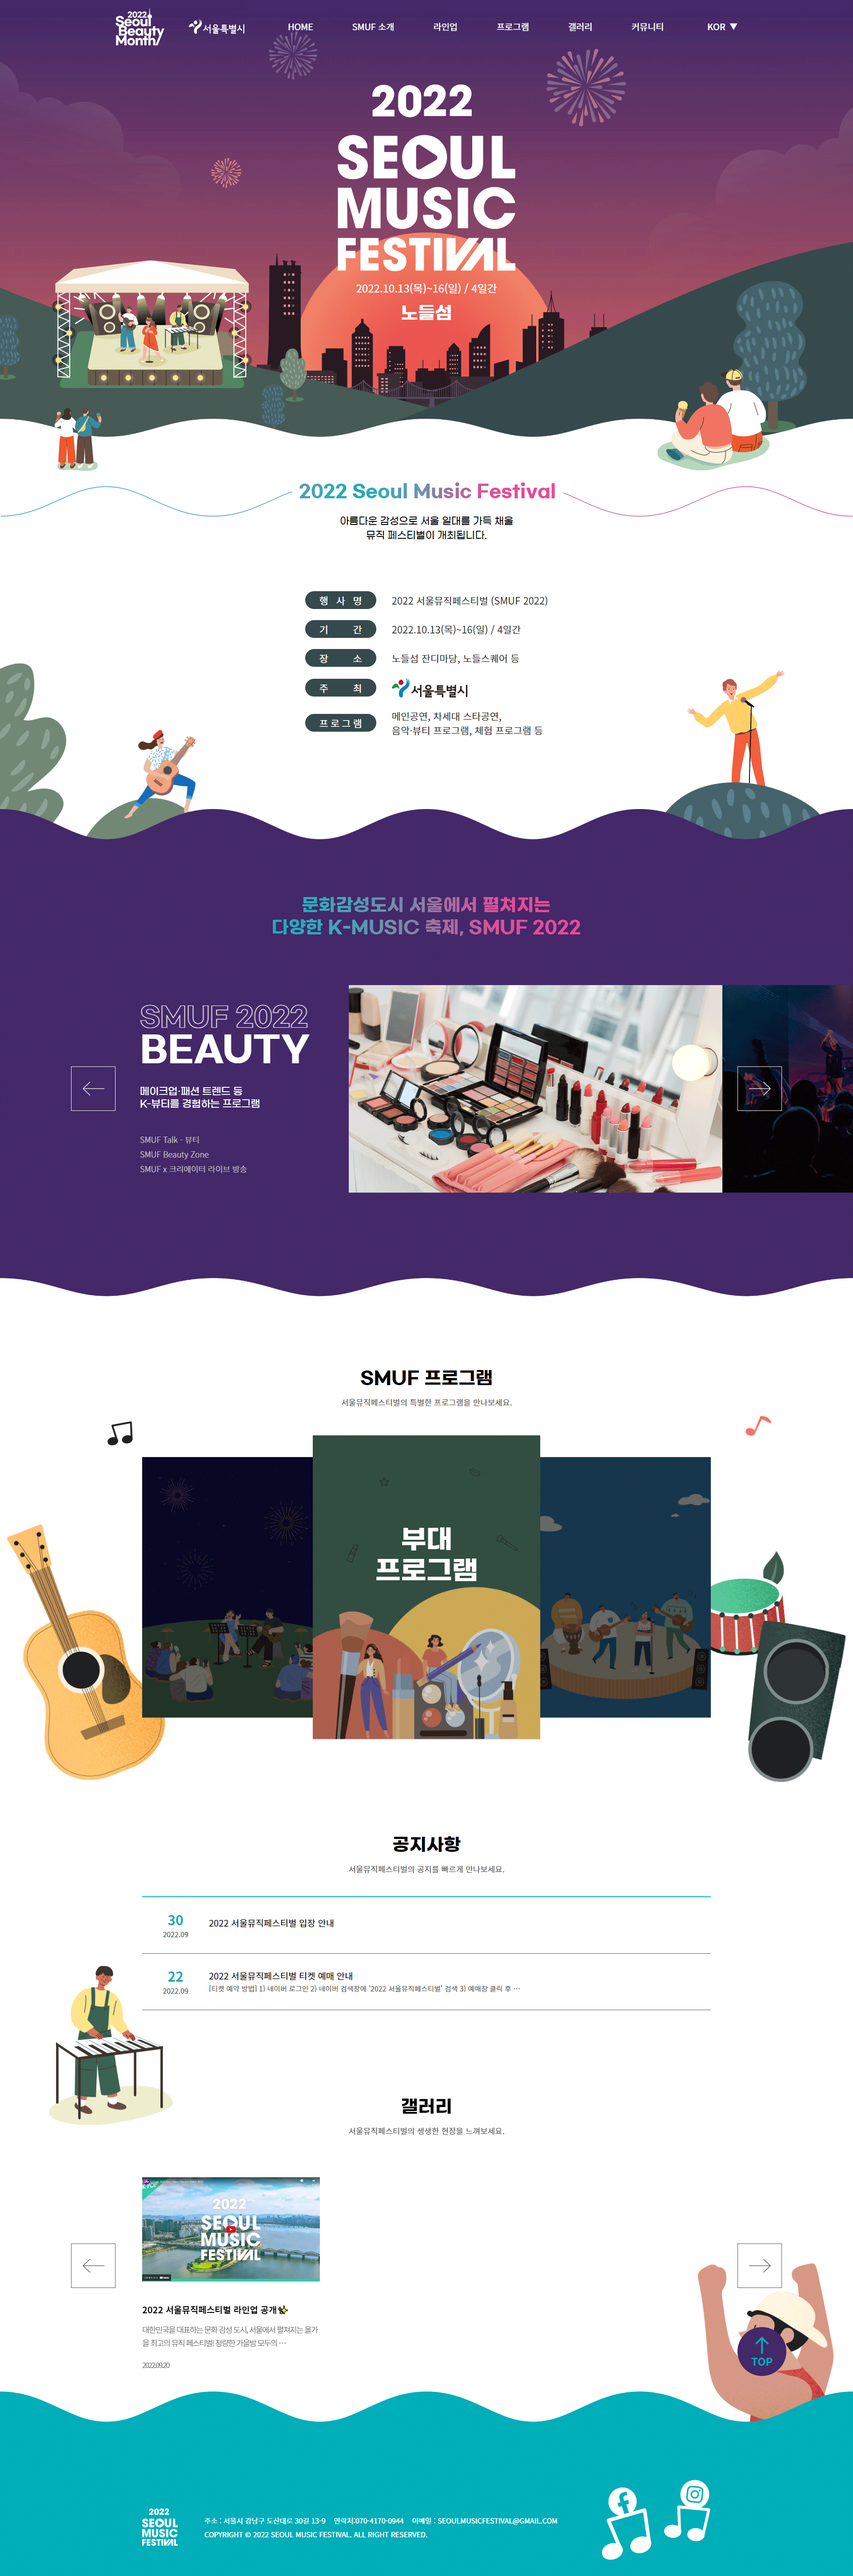
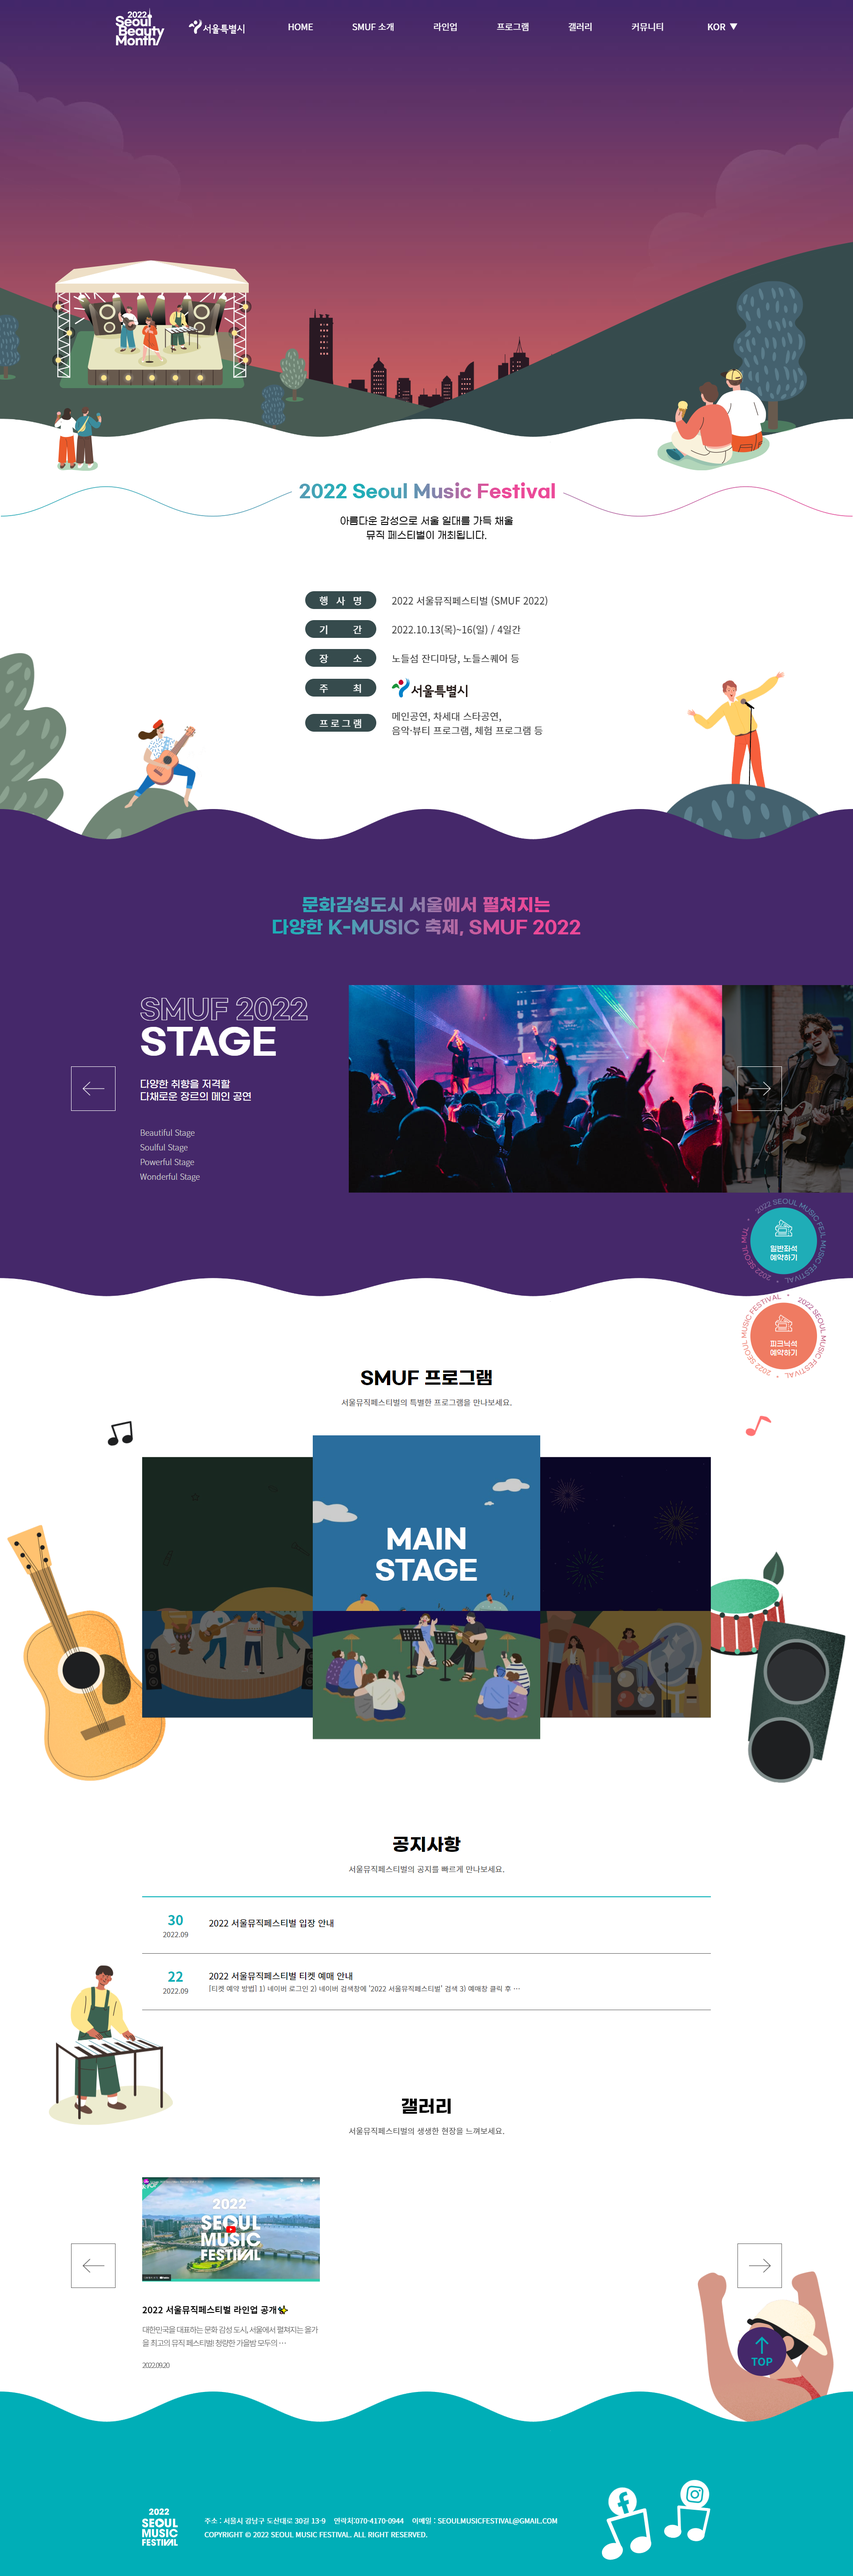
헤더 작업중

diff --git a/index.html b/index.html
@@ -4,7 +4,7 @@
     <meta http-equiv="X-UA-Compatible" content="IE=edge" />
     <meta
       name="viewport"
-      content="width=device-width, initial-scale=1.0 user-scalable=no"
+      content="width=device-width, initial-scale=1, minimum-scale=1, maximum-scale=1, user-scalable=no"
     />
     <meta name="format-detection" content="telephone=no" />
     <meta property="og:type" content="website" />
@@ -50,20 +50,77 @@
     <link rel="stylesheet" href="css/main.css" />
   </head>
   <body>
-    <header class="header">
-      <div class="h-wrap">
-        <ul class="logo">
-          <li></li>
-          <li></li>
-        </ul>
-      </div>
-    </header>
-    <section class="visual"></section>
-    <section class="schedule"></section>
-    <section class="Stage"></section>
-    <section class="sump"></section>
-    <section class="notice"></section>
-    <section class="gallery"></section>
-    <footer class="footer"></footer>
+    <div class="wrap">
+      <header class="header">
+        <div class="h-wrap">
+          <ul class="logo">
+            <li>
+              <a href="#" class="month"
+                ><img src="images/logo/logo.png" alt="아름다운서울"
+              /></a>
+            </li>
+            <li>
+              <a href="#" class="seoul"
+                ><img src="images/logo/seoul_logoW.png" alt="서울특별시" />
+              </a>
+            </li>
+          </ul>
+          <ul class="gnb">
+            <li><a href="index.html">home</a></li>
+            <li>
+              <a href="#">smuf소개</a>
+              <ul class="depth2">
+                <li><a href="#">행사 개요</a></li>
+                <li><a href="#">일정표</a></li>
+                <li><a href="#">map</a></li>
+                <li><a href="#">오시는 길</a></li>
+              </ul>
+            </li>
+            <li>
+              <a href="#">라인업</a>
+              <ul class="depth2">
+                <li><a href="#">라인업</a></li>
+              </ul>
+            </li>
+            <li>
+              <a href="#">프로그램</a>
+              <ul class="depth2">
+                <li><a href="#"> stage</a></li>
+                <li><a href="#">sub stage</a></li>
+              </ul>
+            </li>
+            <li>
+              <a href="#">갤러리</a>
+              <ul class="depth2">
+                <li><a href="#">sumf 2019</a></li>
+                <li><a href="#">sumf 2022</a></li>
+              </ul>
+            </li>
+            <li>
+              <a href="#">커뮤니티</a>
+              <ul class="depth2">
+                <li><a href="#">공지사항</a></li>
+                <li><a href="#">문의하기</a></li>
+              </ul>
+            </li>
+          </ul>
+          <div class="loc">
+            <span class="lan">kor</span>
+            <img src="images/icon/sh01.png" alt="화살표" class="sh01" />
+          </div>
+        </div>
+      </header>
+      <section class="visual">
+        <div class="v-wrap">
+          <img src="images/" alt="">
+        </div>
+      </section>
+      <section class="schedule"></section>
+      <section class="Stage"></section>
+      <section class="sump"></section>
+      <section class="notice"></section>
+      <section class="gallery"></section>
+      <footer class="footer"></footer>
+    </div>
   </body>
 </html>

diff --git a/css/main.css b/css/main.css
@@ -15,6 +15,83 @@ a {
   text-decoration: none;
 }
 
+image {
+  vertical-align: middle;
+  border: 0;
+}
+
 body {
   font-family: "Noto Sans KR", sans-serif;
+  word-break: break-all;
+}
+
+.clearfix::after {
+  content: "";
+  width: 100%;
+  clear: both;
+}
+
+.wrap {
+  position: relative;
+  display: block;
+}
+
+.header {
+  width: 100%;
+  height: 100%;
+}
+.header .h-wrap {
+  max-width: 1400px;
+  height: 120px;
+  margin: 0 auto;
+  background: black;
+  display: flex;
+  justify-content: space-between;
+  align-items: center;
+}
+.header .h-wrap .logo {
+  display: flex;
+  align-items: center;
+}
+.header .h-wrap .logo .month {
+  margin-right: 55px;
+}
+.header .h-wrap .gnb {
+  width: 846px;
+  height: 100%;
+  display: flex;
+  justify-content: space-between;
+  background: #f00;
+}
+.header .h-wrap .gnb > li {
+  height: 100%;
+  line-height: 120px;
+}
+.header .h-wrap .gnb > li > a {
+  display: block;
+  font-size: 20px;
+  font-weight: 500;
+  color: #fff;
+  text-align: center;
+}
+.header .h-wrap .gnb > li .depth2 {
+  text-align: center;
+  line-height: 250%;
+  padding-top: 40px;
+}
+.header .h-wrap .loc {
+  display: flex;
+  align-items: center;
+}
+.header .h-wrap .loc .lan {
+  display: block;
+  font-weight: 700;
+  color: #fff;
+  text-transform: uppercase;
+}
+.header .h-wrap .loc .sh01 {
+  margin-left: 5px;
+  width: 15px;
+  height: 15px;
+  white-space: normal;
 }

diff --git a/scss/_header.scss b/scss/_header.scss
@@ -1,0 +1,61 @@
+.header {
+  width: 100%;
+  height: 100%;
+  .h-wrap {
+    max-width: 1400px;
+    height: 120px;
+    margin: 0 auto;
+    background: black;
+    display: flex;
+    justify-content: space-between;
+    align-items: center;
+    .logo {
+      display: flex;
+      align-items: center;
+      .month {
+        margin-right: 55px;
+      }
+    }
+    .gnb {
+      width: 846px;
+      height: 100%;
+      display: flex;
+      justify-content: space-between;
+      background: #f00;
+      > li {
+        height: 100%;
+        line-height: 120px;
+        > a {
+          display: block;
+          font-size: 20px;
+          font-weight: 500;
+          color: #fff;
+          text-align: center;
+        }
+        .depth2 {
+          text-align: center;
+          line-height: 250%;
+          padding-top: 40px;
+        }
+      }
+    }
+    .loc {
+      display: flex;
+      align-items: center;
+      .lan {
+        display: block;
+        width: 100%;
+        height: 100%;
+        font-weight: 700;
+        color: #fff;
+        text-transform: uppercase;
+      }
+      .sh01 {
+        margin-left: 5px;
+        width: 15px;
+        height: 15px;
+        white-space: normal;
+      }
+    }
+  }
+}

diff --git a/scss/main.scss b/scss/main.scss
@@ -1,5 +1,8 @@
 @charset "utf-8";
 @import url(../css/font.css);
+@mixin gmarket {
+  font-family: "GmarketSansMedium";
+}
 * {
   margin: 0;
   padding: 0;
@@ -13,26 +16,31 @@ a {
   color: #000;
   text-decoration: none;
 }
+image {
+  vertical-align: middle;
+  border: 0;
+}
 
 body {
   font-family: "Noto Sans KR", sans-serif;
+  word-break: break-all;
 }
 
-.header {
+// 공통요소
+.clearfix::after {
+  content: "";
+  width: 100%;
+  clear: both;
 }
-.visual {
+
+.wrap {
+  position: relative;
+  display: block;
 }
-.schedule {
-}
-.Stage {
-}
-.gallery {
-}
-.notice {
-}
-.sump {
-}
-.gallery {
-}
-.footer {
-}
+@import "header";
+@import "visual";
+@import "schesule";
+@import "Stage";
+@import "notice";
+@import "gallery";
+@import "footer";
